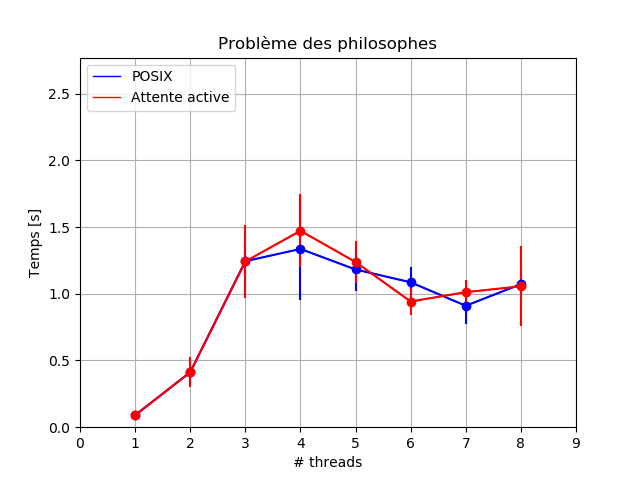
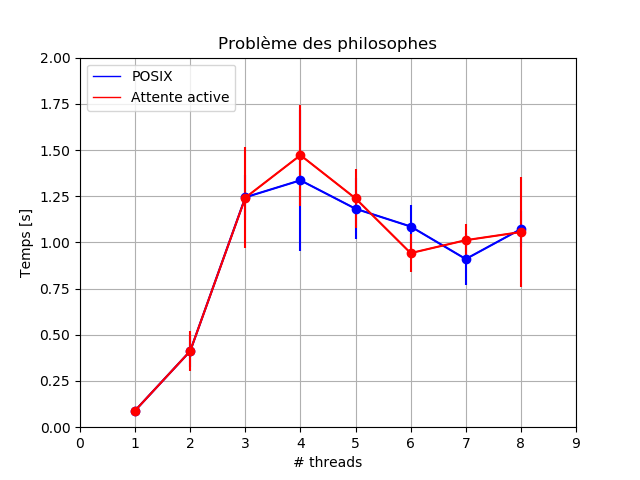
philo

diff --git a/Tout/graph.py b/Tout/graph.py
@@ -43,7 +43,7 @@ def philosophes():
     
     #Modification des limites des axes du graphiques ([0;max+1])
     plt.xlim(0,np.max(data1["thread"])+1)
-    plt.ylim(0,np.max(data2["time"])+1)
+    plt.ylim(0,2)
     
     #Légende des axes, titre du graphique, grille, légende du graphique
     plt.xlabel('# threads')
@@ -132,5 +132,5 @@ def read_write():
     plt.close()
     
 philosophes()
-prod_cons()
-read_write()
+#prod_cons()
+#read_write()
